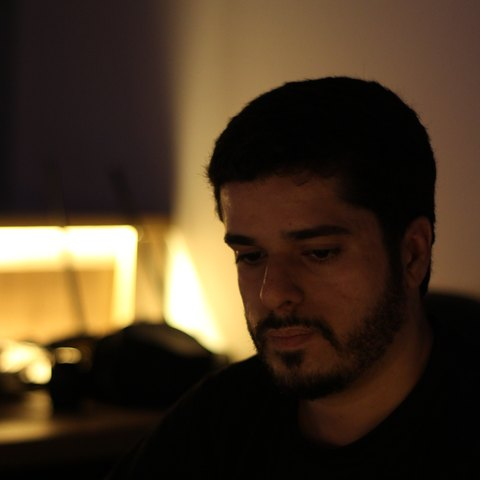
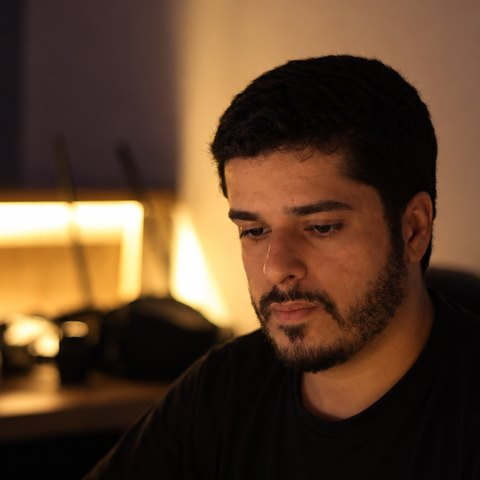
Nova foto do Jonas: na mesa de som (foto em pé no card de professores e na página do curso; rosto nos círculos pequenos)
Claude-Session: https://claude.ai/code/session_01Anaiooi1A9vVwuiKj7kNWR

diff --git a/src/config/instructors.ts b/src/config/instructors.ts
@@ -16,6 +16,11 @@ export type Instructor = {
   photo: string;
   /** foto com enquadramento mais aberto para o card grande de professores (se vazio, usa `photo`) */
   photoLarge?: string;
+  /**
+   * Foto em pé (proporção 4:5) mostrando o professor em ação, com o equipamento aparecendo.
+   * Quando existe, substitui o círculo no card de professores e na página de venda da formação.
+   */
+  photoScene?: string;
   /** texto completo: aparece no card grande da seção "Quem está por trás" (se vazio, usa `bio`) */
   details?: string;
   /** números em destaque, ex.: { value: "30+", label: "anos de experiência" } */
@@ -34,6 +39,8 @@ const LIST = [
     bio: "Dono do canal Culto em Off. Especialista em tecnologia, com mais de 12 anos em TI e 15 anos servindo em equipes técnicas de igreja.",
     photo: "/images/jonas-silva.jpg",
     photoLarge: "/images/jonas-silva-professor.jpg",
+    // na mesa de som: usada onde há espaço para a foto em pé (card de professores e página do curso)
+    photoScene: "/images/jonas-silva-mesa.jpg",
     details:
       "Dono do canal Culto em Off e especialista em tecnologia. Profissionalmente, atua com infraestrutura, cloud, cibersegurança e automação. Na igreja, vive na prática os desafios das equipes técnicas e dos voluntários.",
     stats: [

diff --git a/src/components/sections/about/About.tsx b/src/components/sections/about/About.tsx
@@ -16,8 +16,14 @@ export default function About() {
           <ul className="about__team-list">
             {INSTRUCTORS.map((t, i) => (
               <li key={t.id} className="teacher" data-reveal style={{ "--i": i % 2 } as React.CSSProperties}>
-                <span className="teacher__photo">
-                  <Image src={t.photoLarge ?? t.photo} alt={`Foto de ${t.name}`} fill sizes="(max-width: 560px) 96px, 132px" />
+                {/* com foto "em ação" (photoScene), o card mostra a foto em pé, com o equipamento aparecendo */}
+                <span className={`teacher__photo${t.photoScene ? " teacher__photo--scene" : ""}`}>
+                  <Image
+                    src={t.photoScene ?? t.photoLarge ?? t.photo}
+                    alt={`Foto de ${t.name}`}
+                    fill
+                    sizes={t.photoScene ? "(max-width: 560px) 112px, 168px" : "(max-width: 560px) 96px, 132px"}
+                  />
                 </span>
                 <div className="teacher__head">
                   <p className="teacher__role">{t.role}</p>

diff --git a/src/components/sales/SalesPageView.tsx b/src/components/sales/SalesPageView.tsx
@@ -409,9 +409,15 @@ export default function SalesPageView({ course, page, audience }: Props) {
           </div>
           {teacher && (
             <aside className="sp-fit__teacher" aria-labelledby="sp-prof">
-              <span className="sp-teacher__photo">
-                <Image src={teacher.photo} alt={`Foto de ${teacher.name}`} fill sizes="120px" />
-              </span>
+              {teacher.photoScene ? (
+                <span className="sp-fit__scene">
+                  <Image src={teacher.photoScene} alt={`${teacher.name} na mesa de som`} fill sizes="(max-width: 960px) 92vw, 400px" />
+                </span>
+              ) : (
+                <span className="sp-teacher__photo">
+                  <Image src={teacher.photo} alt={`Foto de ${teacher.name}`} fill sizes="120px" />
+                </span>
+              )}
               <p className="swp-kicker">Seu professor</p>
               <h3 id="sp-prof">{teacher.name}</h3>
               <p className="sp-teacher__role">{teacher.role}</p>

diff --git a/src/components/sales/sales.css b/src/components/sales/sales.css
@@ -2395,6 +2395,25 @@ body:has(.promo-bar) .sp-offer {
   height: 96px;
   margin-bottom: 6px;
 }
+/* foto do professor em ação (4:5), no topo do cartão */
+.sp-fit__scene {
+  position: relative;
+  display: block;
+  aspect-ratio: 4 / 5;
+  margin-bottom: 10px;
+  overflow: hidden;
+  border-radius: 14px;
+  background: #0f1d47;
+}
+.sp-fit__scene img {
+  object-fit: cover;
+}
+@media (max-width: 960px) {
+  /* coluna única: a foto não ocupa a largura toda, para o cartão não ficar enorme */
+  .sp-fit__scene {
+    width: min(100%, 340px);
+  }
+}
 .sp-fit__teacher h3 {
   margin: 0;
   font-family: var(--font-display), ui-sans-serif, system-ui, sans-serif;

diff --git a/src/components/sections/about/about.css b/src/components/sections/about/about.css
@@ -45,6 +45,12 @@
 .teacher__photo img {
   object-fit: cover;
 }
+/* foto em pé (4:5), com o equipamento aparecendo */
+.teacher__photo--scene {
+  width: 168px;
+  height: 210px;
+  border-radius: 18px;
+}
 .teacher__photo--soon {
   display: grid;
   place-items: center;
@@ -170,6 +176,11 @@
   .teacher__photo {
     width: 96px;
     height: 96px;
+  }
+  .teacher__photo--scene {
+    width: 112px;
+    height: 140px;
+    border-radius: 14px;
   }
   .teacher__photo--soon svg {
     width: 42px;
